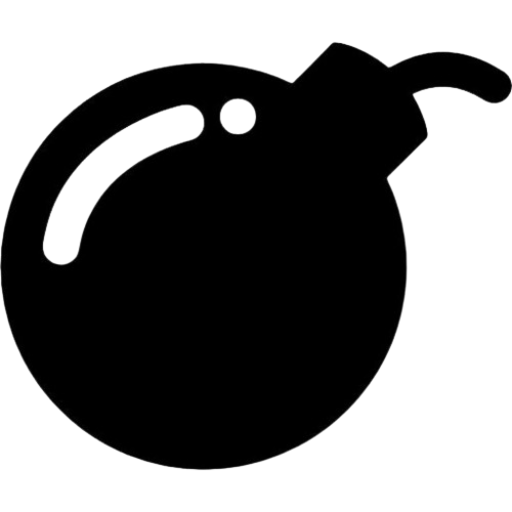
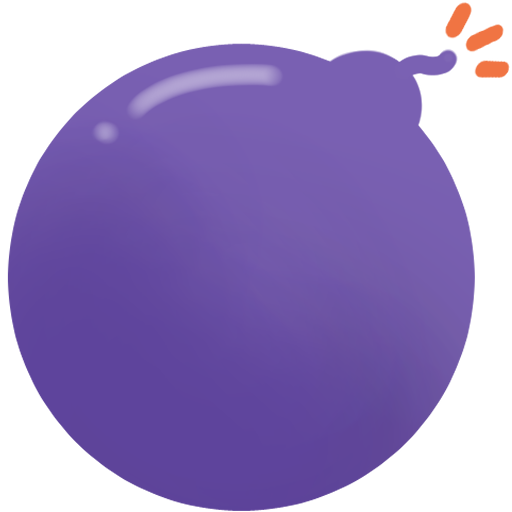
젤리v.1.0

diff --git a/game.js b/game.js
@@ -50,34 +50,42 @@ class AppleGame {
     }
     
     initCanvas() {
-        // Mobile-specific dimensions
+        // Determine if mobile based on viewport
         const isMobile = window.innerWidth <= 768;
         
+        // Fixed spacing and sizes for consistent gameplay
         if (isMobile) {
-            // Fixed mobile dimensions
+            // Mobile: Smaller apples, tighter spacing
             this.APPLE_SPACING = 28;
-            this.APPLE_SIZE = 18;
-            
-            const width = this.COLS * this.APPLE_SPACING + 40; // 320px
-            const height = this.ROWS * this.APPLE_SPACING + 40; // 516px
-            
-            this.canvas.width = width;
-            this.canvas.height = height;
-            this.canvas.style.width = width + 'px';
-            this.canvas.style.height = height + 'px';
+            this.APPLE_SIZE = 24;
         } else {
-            // Desktop dimensions
+            // Desktop: Larger apples, normal spacing  
             this.APPLE_SPACING = 38;
             this.APPLE_SIZE = 32;
-            
-            const width = this.COLS * this.APPLE_SPACING + 40; // 420px
-            const height = this.ROWS * this.APPLE_SPACING + 40; // 686px
-            
-            this.canvas.width = width;
-            this.canvas.height = height;
-            this.canvas.style.width = width + 'px';
-            this.canvas.style.height = height + 'px';
         }
+        
+        // Calculate canvas dimensions based on grid
+        const canvasWidth = this.COLS * this.APPLE_SPACING + 40;
+        const canvasHeight = this.ROWS * this.APPLE_SPACING + 40;
+        
+        // Set canvas internal resolution
+        this.canvas.width = canvasWidth;
+        this.canvas.height = canvasHeight;
+        
+        // Get container width to scale canvas display size
+        const container = this.canvas.parentElement;
+        const containerWidth = container.clientWidth;
+        
+        // Calculate scale to fit container while maintaining aspect ratio
+        const maxDisplayWidth = Math.min(containerWidth * 0.95, 600);
+        const scale = Math.min(maxDisplayWidth / canvasWidth, 1);
+        
+        // Set display size while maintaining aspect ratio
+        this.canvas.style.width = (canvasWidth * scale) + 'px';
+        this.canvas.style.height = (canvasHeight * scale) + 'px';
+        
+        // Store scale for mouse position calculations
+        this.displayScale = scale;
     }
     
     loadImages() {
@@ -105,6 +113,17 @@ class AppleGame {
             for (let col = 0; col < this.COLS; col++) {
                 const appleData = this.generateApple(col, row);
                 this.board[row][col] = appleData;
+            }
+        }
+    }
+    
+    updateApplePositions() {
+        // Update apple positions when canvas is resized
+        for (let row = 0; row < this.ROWS; row++) {
+            for (let col = 0; col < this.COLS; col++) {
+                const apple = this.board[row][col];
+                apple.x = col * this.APPLE_SPACING + 20;
+                apple.y = row * this.APPLE_SPACING + 20;
             }
         }
     }
@@ -148,6 +167,13 @@ class AppleGame {
         this.canvas.addEventListener('mousedown', (e) => this.onMouseDown(e));
         this.canvas.addEventListener('mousemove', (e) => this.onMouseMove(e));
         this.canvas.addEventListener('mouseup', (e) => this.onMouseUp(e));
+        
+        // Window resize event for responsive canvas
+        window.addEventListener('resize', () => {
+            this.initCanvas();
+            this.updateApplePositions();
+            this.render();
+        });
         
         // Touch events for mobile
         this.canvas.addEventListener('touchstart', (e) => {
@@ -232,7 +258,7 @@ class AppleGame {
         
         gameOverDiv.innerHTML = `
             <div class="game-over-content">
-                <h2>🍎 게임 끝! 🍎</h2>
+                <h2>🍮 게임 끝! 🍮</h2>
                 <div class="final-stats">
                     <div class="stat-item">
                         <span class="stat-label">최종 점수</span>
@@ -286,7 +312,7 @@ class AppleGame {
             ctx.fillStyle = '#2c3e50';
             ctx.font = 'bold 32px Arial';
             ctx.textAlign = 'center';
-            ctx.fillText('🍎 사과게임 결과 🍎', 200, 60);
+            ctx.fillText('🍮 젤리게임 결과 🍮', 200, 60);
             
             // 통계 박스
             ctx.fillStyle = 'rgba(255, 255, 255, 0.9)';
@@ -384,9 +410,12 @@ class AppleGame {
     
     getMousePos(e) {
         const rect = this.canvas.getBoundingClientRect();
+        const scaleX = this.canvas.width / rect.width;
+        const scaleY = this.canvas.height / rect.height;
+        
         return {
-            x: e.clientX - rect.left,
-            y: e.clientY - rect.top
+            x: (e.clientX - rect.left) * scaleX,
+            y: (e.clientY - rect.top) * scaleY
         };
     }
     
@@ -436,11 +465,15 @@ class AppleGame {
         const containerRect = container.getBoundingClientRect();
         const canvasRect = this.canvas.getBoundingClientRect();
         
+        // Apply scale to convert from canvas coordinates to display coordinates
+        const scaleX = canvasRect.width / this.canvas.width;
+        const scaleY = canvasRect.height / this.canvas.height;
+        
         this.selectionBox.style.display = 'block';
-        this.selectionBox.style.left = (canvasRect.left - containerRect.left + left) + 'px';
-        this.selectionBox.style.top = (canvasRect.top - containerRect.top + top) + 'px';
-        this.selectionBox.style.width = width + 'px';
-        this.selectionBox.style.height = height + 'px';
+        this.selectionBox.style.left = (canvasRect.left - containerRect.left + left * scaleX) + 'px';
+        this.selectionBox.style.top = (canvasRect.top - containerRect.top + top * scaleY) + 'px';
+        this.selectionBox.style.width = (width * scaleX) + 'px';
+        this.selectionBox.style.height = (height * scaleY) + 'px';
     }
     
     updateSelectedApples() {
@@ -1088,8 +1121,26 @@ class AppleGame {
                 this.ctx.shadowColor = '#00ff00';
             }
             
-            // Draw image centered
-            this.ctx.drawImage(img, apple.x, apple.y, this.APPLE_SIZE, this.APPLE_SIZE);
+            // Draw image centered with aspect ratio maintained
+            // Use the original image's aspect ratio
+            const aspectRatio = img.width / img.height;
+            let drawWidth = this.APPLE_SIZE;
+            let drawHeight = this.APPLE_SIZE;
+            
+            // Maintain aspect ratio
+            if (aspectRatio > 1) {
+                // Image is wider than tall
+                drawHeight = this.APPLE_SIZE / aspectRatio;
+            } else {
+                // Image is taller than wide
+                drawWidth = this.APPLE_SIZE * aspectRatio;
+            }
+            
+            // Center the image
+            const offsetX = (this.APPLE_SIZE - drawWidth) / 2;
+            const offsetY = (this.APPLE_SIZE - drawHeight) / 2;
+            
+            this.ctx.drawImage(img, apple.x + offsetX, apple.y + offsetY, drawWidth, drawHeight);
             
             // Reset shadow
             this.ctx.shadowBlur = 0;

diff --git a/index.html b/index.html
@@ -3,7 +3,7 @@
   <head>
     <meta charset="UTF-8" />
     <meta name="viewport" content="width=device-width, initial-scale=1.0" />
-    <title>사과게임 - Apple Game</title>
+    <title>젤리게임 - Jelly Game</title>
     <link rel="stylesheet" href="styles.css" />
   </head>
   <body>
@@ -69,34 +69,34 @@
       </div>
 
       <div class="apple-legend">
-        <h3>🍎 특별 사과 가이드 (색상으로 구분)</h3>
+        <h3>🍮 특별 젤리 가이드 (색상으로 구분)</h3>
         <div class="legend-grid">
           <div class="legend-item">
-            <span class="legend-apple normal"></span>
-            <span class="legend-text">일반 사과 (10점)</span>
+            <img src="apple-normal.png" class="legend-apple-img" alt="일반 젤리">
+            <span class="legend-text">일반 젤리 (10점)</span>
           </div>
           <div class="legend-item">
-            <span class="legend-apple golden"></span>
-            <span class="legend-text">황금 사과 (2배 점수)</span>
+            <img src="apple-golden.png" class="legend-apple-img" alt="황금 젤리">
+            <span class="legend-text">황금 젤리 (2배 점수)</span>
           </div>
           <div class="legend-item">
-            <span class="legend-apple time"></span>
-            <span class="legend-text">시간 사과 (+5초)</span>
+            <img src="apple-time.png" class="legend-apple-img" alt="시간 젤리">
+            <span class="legend-text">시간 젤리 (+5초)</span>
           </div>
           <div class="legend-item">
-            <span class="legend-apple wild"></span>
-            <span class="legend-text">와일드 사과 (모든 수)</span>
+            <img src="apple-wild.png" class="legend-apple-img" alt="와일드 젤리">
+            <span class="legend-text">와일드 젤리 (모든 수)</span>
           </div>
           <div class="legend-item">
-            <span class="legend-apple bomb"></span>
-            <span class="legend-text">폭탄 사과 (주변 파괴)</span>
+            <img src="apple-bomb.png" class="legend-apple-img" alt="폭탄 젤리">
+            <span class="legend-text">폭탄 젤리 (주변 파괴)</span>
           </div>
         </div>
       </div>
 
       <div class="game-info">
         <p>
-          🍎 드래그하여 사과를 선택하세요! 합이 10이 되면 사과가 사라집니다!
+          🍮 드래그하여 젤리를 선택하세요! 합이 10이 되면 젤리가 사라집니다!
         </p>
       </div>
     </div>

diff --git a/styles.css b/styles.css
@@ -38,9 +38,11 @@ body {
     display: flex;
     gap: 30px;
     align-items: center;
+    justify-content: center;
+    flex: 1;
 }
 
-.score-display, .timer-display {
+.score-display, .timer-display, .combo-display-header {
     display: flex;
     flex-direction: column;
     align-items: center;
@@ -136,6 +138,8 @@ body {
     touch-action: none; /* Prevents default touch behaviors like scrolling */
     -webkit-touch-callout: none; /* Disables iOS callout */
     -webkit-tap-highlight-color: transparent; /* Removes tap highlight */
+    max-width: 100%;
+    height: auto;
 }
 
 .selection-box {
@@ -851,52 +855,11 @@ body {
     box-shadow: 0 2px 6px rgba(0, 0, 0, 0.1);
 }
 
-.legend-apple {
+.legend-apple-img {
     width: 35px;
     height: 35px;
-    display: flex;
-    align-items: center;
-    justify-content: center;
-    font-weight: bold;
-    font-size: 14px;
-    color: #2c3e50;
-    border: 2px solid;
-    border-radius: 50%;
+    object-fit: contain;
     flex-shrink: 0;
-}
-
-.legend-apple.normal {
-    background: linear-gradient(135deg, #ff6b6b 0%, #ff8e53 100%);
-    border-color: #e55039;
-}
-
-.legend-apple.golden {
-    background: linear-gradient(135deg, #ffd700 0%, #ffb347 100%);
-    border-color: #f39c12;
-    box-shadow: 0 0 10px rgba(255, 215, 0, 0.4);
-}
-
-.legend-apple.time {
-    background: linear-gradient(135deg, #74b9ff 0%, #0984e3 100%);
-    border-color: #2980b9;
-    box-shadow: 0 0 10px rgba(116, 185, 255, 0.4);
-}
-
-.legend-apple.wild {
-    background: linear-gradient(135deg, 
-        #ff0000 0%, #ff8000 14%, #ffff00 28%, 
-        #00ff00 42%, #0080ff 57%, #8000ff 71%, 
-        #ff00ff 85%, #ff0000 100%);
-    border-color: #666;
-    box-shadow: 0 0 12px rgba(255, 102, 0, 0.6);
-}
-
-.legend-apple.bomb {
-    background: linear-gradient(135deg, #fd79a8 0%, #e84393 100%);
-    border-color: #d63031;
-    box-shadow: 0 0 10px rgba(253, 121, 168, 0.4);
-    border-radius: 0;
-    clip-path: polygon(50% 0%, 61% 35%, 98% 35%, 68% 57%, 79% 91%, 50% 70%, 21% 91%, 32% 57%, 2% 35%, 39% 35%);
 }
 
 .legend-text {
